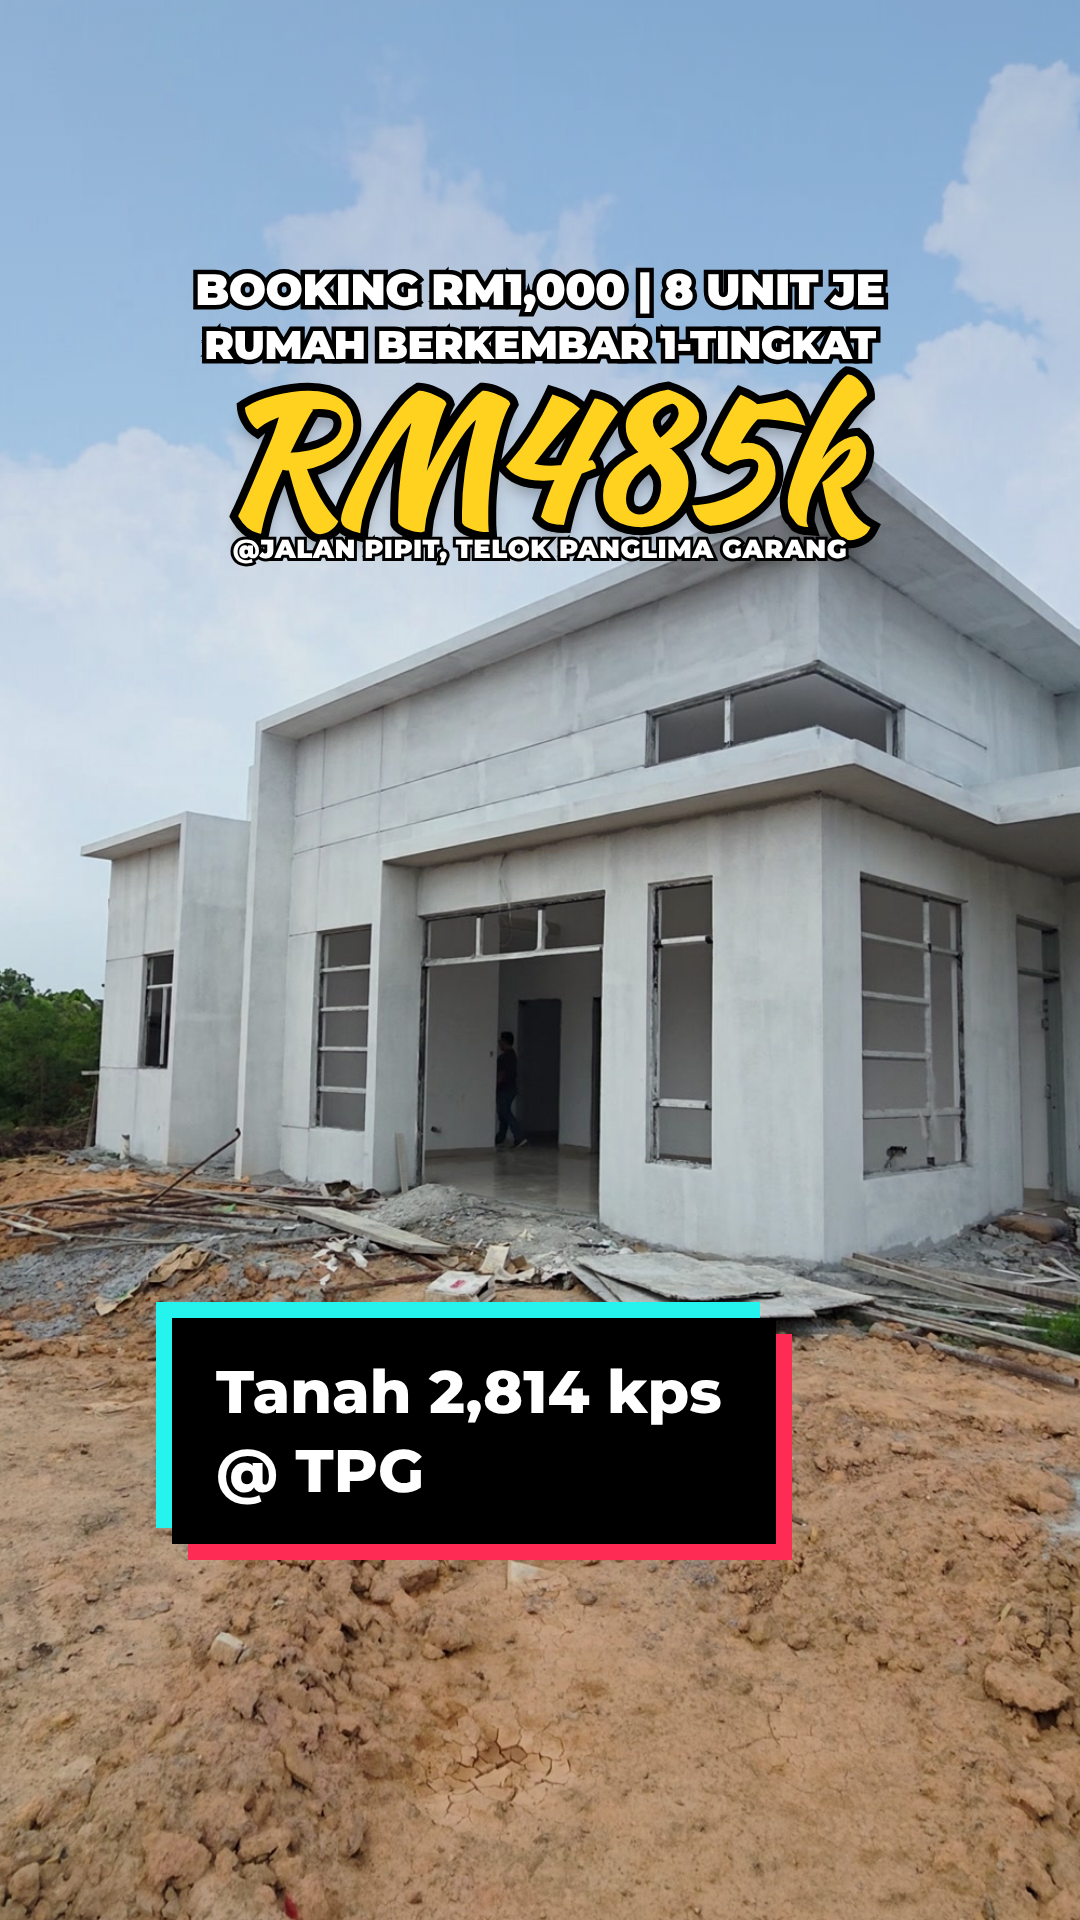
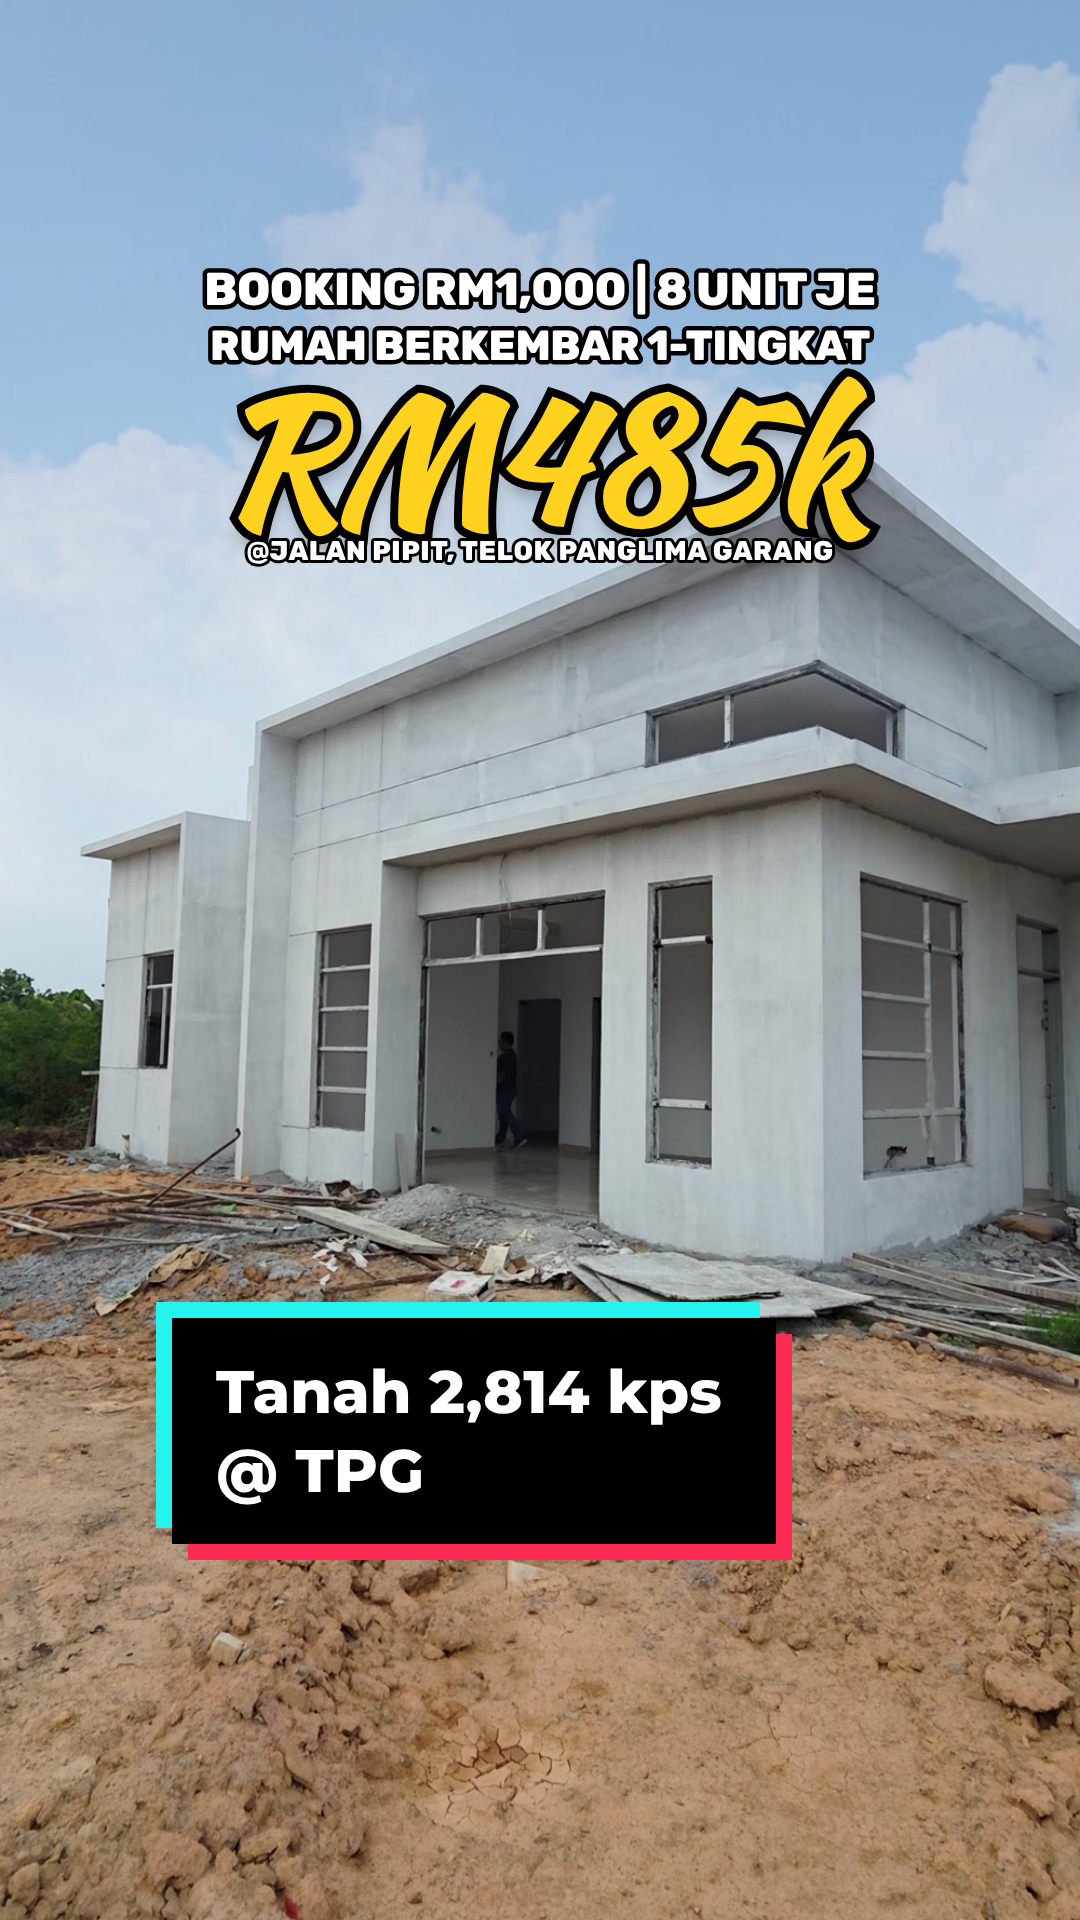
Covers: use Rubik for the top caps lines to match the account's style
Claude-Session: https://claude.ai/code/session_013Q961J8GiVCsfByTTFVKLz

Changed region(s): [[0.1833, 0.125, 0.825, 0.3125]]

diff --git a/video/bentara/cover/cover-b.html b/video/bentara/cover/cover-b.html
@@ -8,17 +8,19 @@
      black caption box with cyan/red offset. Text sits inside the centre 3:4 area the profile grid shows. */
   @font-face { font-family: "Script"; src: url("../assets/fonts/kaushan-script-latin-400-normal.woff2"); }
   @font-face { font-family: "Mont"; src: url("../assets/fonts/montserrat-latin-900-normal.woff2"); font-weight: 900; }
+  @font-face { font-family: "Rubik"; src: url("../assets/fonts/rubik-latin-800-normal.woff2"); font-weight: 800; }
+  @font-face { font-family: "Rubik"; src: url("../assets/fonts/rubik-latin-900-normal.woff2"); font-weight: 900; }
   @font-face { font-family: "Mont"; src: url("../assets/fonts/montserrat-latin-800-normal.woff2"); font-weight: 800; }
   * { margin: 0; padding: 0; box-sizing: border-box; }
   html, body { width: 1080px; height: 1920px; overflow: hidden; background: #8fa9c4; }
   .bg { position: absolute; inset: 0; width: 1080px; height: 1920px; object-fit: cover; object-position: 50% 50%; transform: scale(1.08); transform-origin: 55% 52%; }
   .shade { position: absolute; left: 0; right: 0; top: 0; height: 900px; background: linear-gradient(rgba(70,110,160,.35), rgba(70,110,160,0)); }
   .top { position: absolute; left: 0; right: 0; top: 262px; text-align: center; color: #fff; font-family: "Mont"; font-weight: 900; text-transform: uppercase; }
-  .l1 { font-size: 44px; letter-spacing: -.5px; -webkit-text-stroke: 9px #000; paint-order: stroke fill; }
-  .l2 { font-size: 40px; letter-spacing: -.5px; margin-top: 4px; -webkit-text-stroke: 9px #000; paint-order: stroke fill; }
+  .l1 { font-family: "Rubik"; font-weight: 800; font-size: 46px; letter-spacing: -.5px; -webkit-text-stroke: 9px #000; paint-order: stroke fill; }
+  .l2 { font-family: "Rubik"; font-weight: 800; font-size: 42px; letter-spacing: -.5px; margin-top: 4px; -webkit-text-stroke: 9px #000; paint-order: stroke fill; }
   .title { margin-top: -6px; font-family: "Script"; font-size: 150px; line-height: 1.12; color: #ffd21f; text-transform: none; letter-spacing: 0;
            -webkit-text-stroke: 16px #000; paint-order: stroke fill; text-shadow: 0 8px 0 #000, 0 12px 18px rgba(0,0,0,.35); }
-  .at { margin-top: -18px; font-size: 26px; letter-spacing: .5px; -webkit-text-stroke: 6px #000; paint-order: stroke fill; }
+  .at { margin-top: -18px; font-family: "Rubik"; font-weight: 800; font-size: 27px; letter-spacing: .5px; -webkit-text-stroke: 6px #000; paint-order: stroke fill; }
   .tag { position: absolute; padding: 10px 24px; border-radius: 14px; background: #fff; color: #000; font-family: "Mont"; font-weight: 900; font-size: 36px; border: 5px solid #000; }
   .box { position: absolute; right: 56px; top: 908px; }
   .box .cy, .box .rd { position: absolute; inset: 0; }

diff --git a/video/bentara/cover/cover-c.html b/video/bentara/cover/cover-c.html
@@ -8,17 +8,19 @@
      black caption box with cyan/red offset. Text sits inside the centre 3:4 area the profile grid shows. */
   @font-face { font-family: "Script"; src: url("../assets/fonts/kaushan-script-latin-400-normal.woff2"); }
   @font-face { font-family: "Mont"; src: url("../assets/fonts/montserrat-latin-900-normal.woff2"); font-weight: 900; }
+  @font-face { font-family: "Rubik"; src: url("../assets/fonts/rubik-latin-800-normal.woff2"); font-weight: 800; }
+  @font-face { font-family: "Rubik"; src: url("../assets/fonts/rubik-latin-900-normal.woff2"); font-weight: 900; }
   @font-face { font-family: "Mont"; src: url("../assets/fonts/montserrat-latin-800-normal.woff2"); font-weight: 800; }
   * { margin: 0; padding: 0; box-sizing: border-box; }
   html, body { width: 1080px; height: 1920px; overflow: hidden; background: #8fa9c4; }
   .bg { position: absolute; inset: 0; width: 1080px; height: 1920px; object-fit: cover; object-position: 50% 50%; transform: scale(1.08); transform-origin: 55% 52%; }
   .shade { position: absolute; left: 0; right: 0; top: 0; height: 900px; background: linear-gradient(rgba(70,110,160,.35), rgba(70,110,160,0)); }
   .top { position: absolute; left: 0; right: 0; top: 262px; text-align: center; color: #fff; font-family: "Mont"; font-weight: 900; text-transform: uppercase; }
-  .l1 { font-size: 44px; letter-spacing: -.5px; -webkit-text-stroke: 9px #000; paint-order: stroke fill; }
-  .l2 { font-size: 40px; letter-spacing: -.5px; margin-top: 4px; -webkit-text-stroke: 9px #000; paint-order: stroke fill; }
+  .l1 { font-family: "Rubik"; font-weight: 800; font-size: 46px; letter-spacing: -.5px; -webkit-text-stroke: 9px #000; paint-order: stroke fill; }
+  .l2 { font-family: "Rubik"; font-weight: 800; font-size: 42px; letter-spacing: -.5px; margin-top: 4px; -webkit-text-stroke: 9px #000; paint-order: stroke fill; }
   .title { margin-top: -6px; font-family: "Script"; font-size: 168px; line-height: 1.12; color: #ffd21f; text-transform: none; letter-spacing: 0;
            -webkit-text-stroke: 16px #000; paint-order: stroke fill; text-shadow: 0 8px 0 #000, 0 12px 18px rgba(0,0,0,.35); }
-  .at { margin-top: -18px; font-size: 26px; letter-spacing: .5px; -webkit-text-stroke: 6px #000; paint-order: stroke fill; }
+  .at { margin-top: -18px; font-family: "Rubik"; font-weight: 800; font-size: 27px; letter-spacing: .5px; -webkit-text-stroke: 6px #000; paint-order: stroke fill; }
   .box { position: absolute; left: 172px; top: 1318px; }
   .box .cy, .box .rd { position: absolute; inset: 0; }
   .box .cy { background: #25f4ee; transform: translate(-16px, -16px); }

diff --git a/video/bentara/cover/cover.html b/video/bentara/cover/cover.html
@@ -8,17 +8,19 @@
      black caption box with cyan/red offset. Text sits inside the centre 3:4 area the profile grid shows. */
   @font-face { font-family: "Script"; src: url("../assets/fonts/kaushan-script-latin-400-normal.woff2"); }
   @font-face { font-family: "Mont"; src: url("../assets/fonts/montserrat-latin-900-normal.woff2"); font-weight: 900; }
+  @font-face { font-family: "Rubik"; src: url("../assets/fonts/rubik-latin-800-normal.woff2"); font-weight: 800; }
+  @font-face { font-family: "Rubik"; src: url("../assets/fonts/rubik-latin-900-normal.woff2"); font-weight: 900; }
   @font-face { font-family: "Mont"; src: url("../assets/fonts/montserrat-latin-800-normal.woff2"); font-weight: 800; }
   * { margin: 0; padding: 0; box-sizing: border-box; }
   html, body { width: 1080px; height: 1920px; overflow: hidden; background: #8fa9c4; }
   .bg { position: absolute; inset: 0; width: 1080px; height: 1920px; object-fit: cover; object-position: 50% 50%; transform: scale(1.08); transform-origin: 55% 52%; }
   .shade { position: absolute; left: 0; right: 0; top: 0; height: 900px; background: linear-gradient(rgba(70,110,160,.35), rgba(70,110,160,0)); }
   .top { position: absolute; left: 0; right: 0; top: 262px; text-align: center; color: #fff; font-family: "Mont"; font-weight: 900; text-transform: uppercase; }
-  .l1 { font-size: 44px; letter-spacing: -.5px; -webkit-text-stroke: 9px #000; paint-order: stroke fill; }
-  .l2 { font-size: 40px; letter-spacing: -.5px; margin-top: 4px; -webkit-text-stroke: 9px #000; paint-order: stroke fill; }
+  .l1 { font-family: "Rubik"; font-weight: 800; font-size: 46px; letter-spacing: -.5px; -webkit-text-stroke: 9px #000; paint-order: stroke fill; }
+  .l2 { font-family: "Rubik"; font-weight: 800; font-size: 42px; letter-spacing: -.5px; margin-top: 4px; -webkit-text-stroke: 9px #000; paint-order: stroke fill; }
   .title { margin-top: -6px; font-family: "Script"; font-size: 168px; line-height: 1.12; color: #ffd21f; text-transform: none; letter-spacing: 0;
            -webkit-text-stroke: 16px #000; paint-order: stroke fill; text-shadow: 0 8px 0 #000, 0 12px 18px rgba(0,0,0,.35); }
-  .at { margin-top: -18px; font-size: 26px; letter-spacing: .5px; -webkit-text-stroke: 6px #000; paint-order: stroke fill; }
+  .at { margin-top: -18px; font-family: "Rubik"; font-weight: 800; font-size: 27px; letter-spacing: .5px; -webkit-text-stroke: 6px #000; paint-order: stroke fill; }
   .box { position: absolute; left: 172px; top: 1318px; }
   .box .cy, .box .rd { position: absolute; inset: 0; }
   .box .cy { background: #25f4ee; transform: translate(-16px, -16px); }
